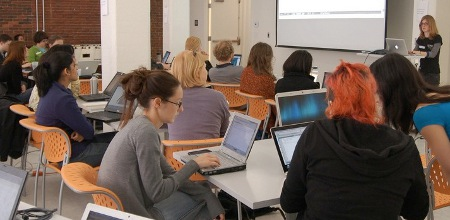
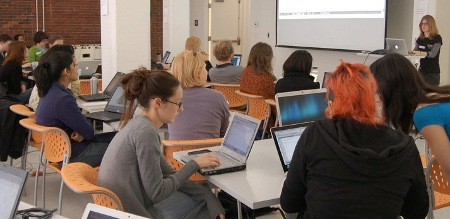
Make the front-page images line up more precisely.

diff --git a/public/style.css b/public/style.css
@@ -76,5 +76,7 @@ ul.top_higher {
     width: 167px;
 }
 .front_image {
-    padding: 3px;
+    display: block;
+    margin: 0;
+    padding: 5px;
 }
